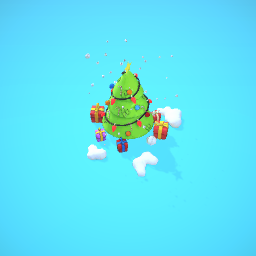
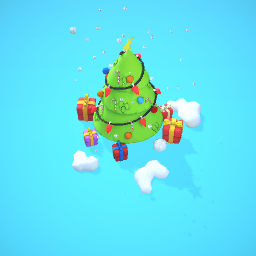
apply custom zoom to thumbnails

diff --git a/3D Spot The Difference Game/Assets/Scripts/CamControl.cs b/3D Spot The Difference Game/Assets/Scripts/CamControl.cs
@@ -182,7 +182,8 @@ namespace Assets.Scripts {
 			if (!me) return;
 
 			if (minZoomFactor > 0) {
-				me.fovMax /= minZoomFactor;
+				me.fovMax *= minZoomFactor;
+				ThumbnailGen.ModifyCameraFov (minZoomFactor);
 			}
 			if (maxZoomFactor > 0) {
 				me.fovMin /= maxZoomFactor;

diff --git a/3D Spot The Difference Game/Assets/Scripts/ThumbnailGen.cs b/3D Spot The Difference Game/Assets/Scripts/ThumbnailGen.cs
@@ -95,5 +95,13 @@ namespace Assets.Scripts {
 			if (!me) return;
 			me.cam.backgroundColor = bgColor;
 		}
+
+		public static void ModifyCameraFov (float fovFactor) {
+
+			if (!me) return;
+			if (fovFactor > 0) {
+				me.cam.fieldOfView *= fovFactor;
+			}
+		}
 	}
 }
